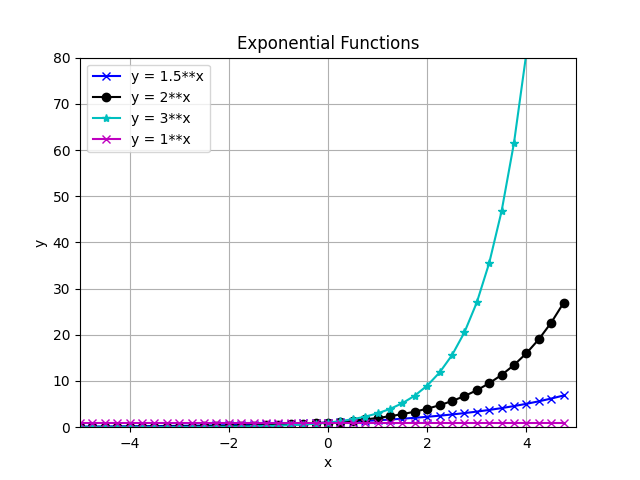
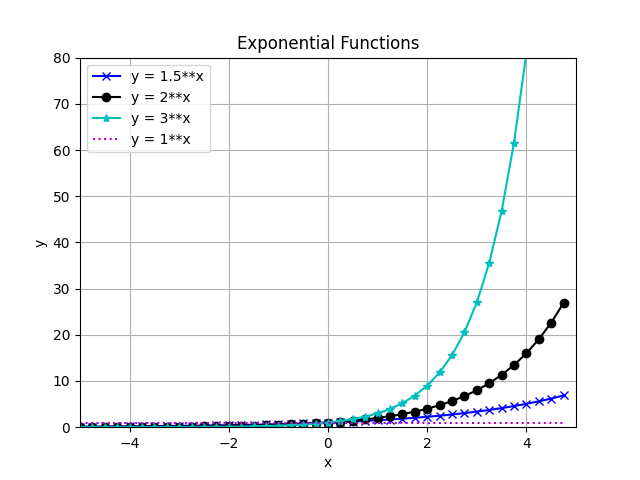
Minor graph updates

Changed region(s): [[0.125, 0.875, 0.9062, 0.9062], [0.1562, 0.2812, 0.1875, 0.3125]]

diff --git a/exponentials.py b/exponentials.py
@@ -14,7 +14,7 @@ y4 = 1**x
 plt.plot(x,y1,'-bx', label='y = 1.5**x')
 plt.plot(x,y2,'-ko', label='y = 2**x')
 plt.plot(x,y3,'-c*', label='y = 3**x')
-plt.plot(x,y4,'-mx', label='y = 1**x')
+plt.plot(x,y4,':m', label='y = 1**x')
 plt.xlabel('x')
 plt.ylabel('y')
 plt.axis([-5.,5., 0.,80.])

diff --git a/e.py b/e.py
@@ -23,7 +23,7 @@ plt.grid(True)
 # Subplot #2
 plt.subplot(1,2,2)
 plt.plot(x,y1,'-kx', label='y = 3**x')
-plt.plot(x,y1d,'-rx', label='y1d = 1.099*(3**x)')
+plt.plot(x,y1d,'-rx', label='dy/dx')
 plt.grid(True)
 #plt.title('y = 3**x')
 plt.legend()
